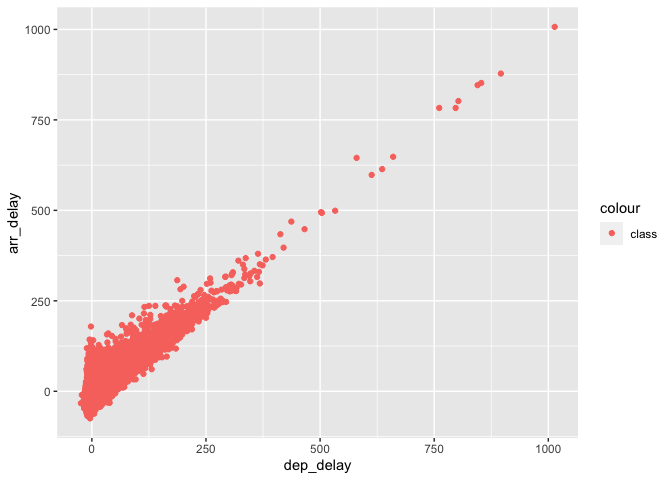
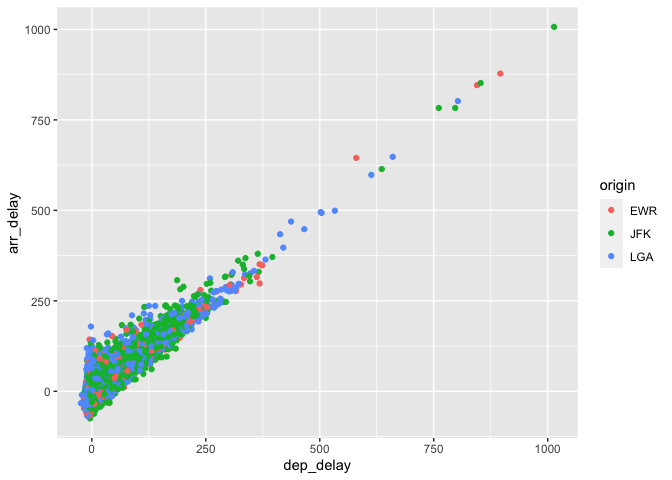
hw4, origin mapping

diff --git a/hw_4.md b/hw_4.md
@@ -74,7 +74,7 @@ head(flights)
 ``` r
 AA_flights = filter(flights, carrier == "AA")
 ggplot(data = AA_flights) +
-   geom_point(mapping = aes(x = dep_delay, y = arr_delay, color = "class"))
+   geom_point(mapping = aes(x = dep_delay, y = arr_delay, color = origin))
 ```
 
     ## Warning: Removed 782 rows containing missing values (geom_point).
